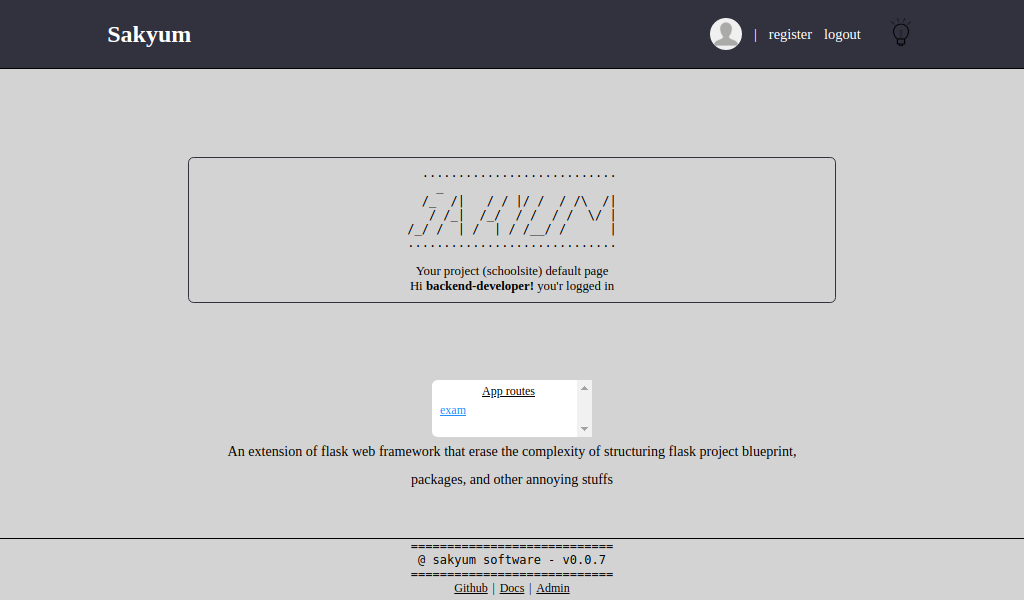
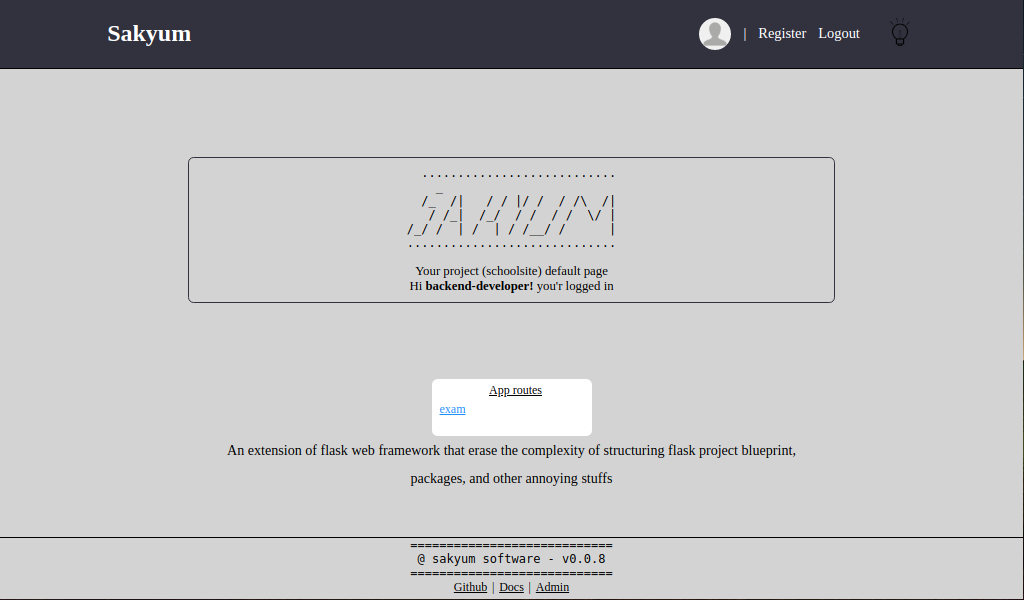
now! it`s compatibility with windows OS and possibly other OS as well

diff --git a/sakyum/templates/default_page/default.html b/sakyum/templates/default_page/default.html
@@ -43,11 +43,11 @@
           {% endif %}
           <a class="link_1">|</a>
           {% if current_user.is_authenticated %}
-            <a href="{{ url_for('auth.adminRegister') }}" class="link_2">register</a>
-            <a href="{{ url_for('auth.adminLogout') }}" class="link_3">logout</a>
+            <a href="{{ url_for('auth.adminRegister') }}" class="link_2">Register</a>
+            <a href="{{ url_for('auth.adminLogout') }}" class="link_3">Logout</a>
           {% else %}
             <a href="https://sakyum.readthedocs.io" class="link_2" target="_blank">Docs</a>
-            <a href="{{ url_for('auth.adminLogin') }}" class="link_3">login</a>
+            <a href="{{ url_for('auth.adminLogin') }}" class="link_3">Login</a>
           {% endif %}
           <a onclick="test()" class="alert">
             <img src="{{ url_for('default.static', filename='media/alert.png') }}" alt="">
@@ -96,10 +96,10 @@
       <!-- the below span tag will be visible only if the page is view with small size screen -->
       <span class="auth_route_sm">
         {% if current_user.is_authenticated %}
-          <a href="{{ url_for('auth.adminRegister') }}">register</a>
-          <a href="{{ url_for('auth.adminLogout') }}">logout</a>
+          <a href="{{ url_for('auth.adminRegister') }}">Register</a>
+          <a href="{{ url_for('auth.adminLogout') }}">Logout</a>
         {% else %}
-          <a href="{{ url_for('auth.adminLogin') }}">login</a>
+          <a href="{{ url_for('auth.adminLogin') }}">Login</a>
         {% endif %}
       </span>
       <p><pre>{{context.footer_style[1]}}

diff --git a/sakyum/base.py b/sakyum/base.py
@@ -5,6 +5,7 @@ import sys
 import shlex
 import logging
 import argparse
+import platform
 import subprocess as sp
 
 from pathlib import Path
@@ -38,11 +39,12 @@ from . import __version__
 
 formatter = "[+] [%(asctime)s] [%(levelname)s] %(message)s"
 logging.basicConfig(format = formatter)
-logger = logging.getLogger(__name__)
-logger.setLevel(logging.DEBUG)
+LOGGER = logging.getLogger(__name__)
+LOGGER.setLevel(logging.DEBUG)
 
 # used for relative path to default image to copy for a project (only)
 ORIGIN = Path(__file__).resolve().parent
+OS_SEP = os.path.sep # platform-specific path separator (for linux `/`, for windows `\\`)
 
 
 class BaseStructure:
@@ -94,16 +96,40 @@ class BaseStructure:
 
   def instanciate_default_img(self):
     """instanciate user default image"""
-    with open(str(ORIGIN) + "/static/default_style/media/default_img.png", mode="rb") as img_read:
+    file_path = os.path.join(ORIGIN, "static", "default_style", "media", "default_img.png")
+    with open(file_path, mode="rb") as img_read:
       img_read_data = img_read.read()
     with open("default_img.png", mode="wb") as img_write:
       img_write.write(img_read_data)
       
 
   def file_opt(self, _dir, tree=True, _here=False, _where=False):
-    """make dir tree if `tree=True` and get into it, if `_here` or `_where` is equal to True"""
+    """
+    make dir tree if `tree=True` and get into it, if `_here` or `_where` is equal to True
+    """
+
+    # we can use any of the below three variables to make our code compatible with many OS
+    os_name = os.name # nt or posix
+    platform_name_1 = sys.platform # win32 or linux or darwin or android
+    platform_name_2 = platform.system() # Windows, Darwin, Linux, etc.
+
     if tree:
-      sp.run(["mkdir", "-p", _dir])
+      if os_name == "nt":
+      # if platform_name_1 == "win32":
+      # if platform_name_2 == "Windows":
+        os.makedirs(_dir, exist_ok=True)
+        # The exist_ok=True argument ensures that the function
+        # does not raise an exception if the directory already exists.
+      elif os_name == "posix":
+      # elif platform_name_1 == "linux" or platform_name_1 == "darwin" or platform_name_1 == "android":
+      # elif platform_name_2 == "Linux" or platform_name_2 == "Darwin":
+        sp.run(["mkdir", "-p", _dir])
+      else:
+        err_compt = f'{__title__.capitalize()} v{__version__} is not compatible with your OS'
+        print()
+        LOGGER.error(err_compt)
+        print()
+        exit()
     if _here:
       os.chdir(os.path.join(_here, _dir))
     if _where:
@@ -121,7 +147,7 @@ class BaseStructure:
       if i in name:
         name_err = f"[{un_accept_char}] are characters that are not allowed to be in your {proj_or_app} name, we found `{i}` in the name ({name})\n"
         print()
-        logger.error(name_err)
+        LOGGER.error(name_err)
         exit()
       
 
@@ -133,7 +159,7 @@ class BaseStructure:
     
     if is_app:
       for _fls in fls:
-        app_name = os.getcwd().split("/")[-1]
+        app_name = os.getcwd().split(OS_SEP)[-1]
         sp.run(shlex.split(f"{fls_cmd} {_fls}"))
         if is_static_file:
           # building app default files (html, css, js)
@@ -162,7 +188,7 @@ class BaseStructure:
   def dir_tree(self, proj_name=None):
     """create a directory tree where file will reserved as well as modules too"""
     self.validateProjectOrAppName(proj_name, type_of=True)
-    dirs = [proj_name, f"{proj_name}/{proj_name}", "media", "templates", "static"]
+    dirs = [proj_name, f"{proj_name}{OS_SEP}{proj_name}", "media", "templates", "static"]
     
     # default files of project sub folder, except `thunder` which is for project base dir
     fls_name = ["__init__", "config", "routes", "secret", "thunder"]
@@ -172,12 +198,12 @@ class BaseStructure:
     # check if the project already exist
     if os.path.exists(os.path.join(_here, proj_name)):
       print(f"\nProject ({proj_name}) already exist in this directory\n\t" + os.path.realpath(proj_name))
-      logger.info(_here)
+      LOGGER.info(_here)
       print()
     else:
       # making directories trees and their default files in the loop
       for _dir in dirs:
-        if _dir == dirs[0] + "/" + dirs[0]:
+        if _dir == dirs[0] + OS_SEP + dirs[0]:
           self.file_opt(_dir, _here=_here)
           # create default modules inside project sub dir
           for _fls in fls:
@@ -220,7 +246,7 @@ class BaseStructure:
               static_base_dir = os.getcwd() # base dir path of static folder
               
               # make project static dir and cd into, NB: `os.getcwd()` is base dir of static dir
-              self.file_opt(proj_name, _where=os.getcwd()+"/"+proj_name)
+              self.file_opt(proj_name, _where=os.getcwd()+OS_SEP+proj_name)
               # storing the project static dir path before creating any thing and cd into media
               s_p_dir = os.getcwd()
               self.file_opt("media", _where="media") # make media dir for project
@@ -240,7 +266,7 @@ class BaseStructure:
           os.chdir(_here)
 
       print()
-      logger.info(f"Project ({proj_name}) created successfully!")
+      LOGGER.info(f"Project ({proj_name}) created successfully!")
       print()
       
 
@@ -281,12 +307,12 @@ class AppStructure(BaseStructure):
     _here_app = os.getcwd()  # initial `inside project folder` (parent) directory
     
     # check if the app already exist
-    app_proj_name = _here_app.split("/")[-1]
+    app_proj_name = _here_app.split(OS_SEP)[-1]
     self.proj_store_name = app_proj_name
 
     if os.path.exists(os.path.join(_here_app, proj_app_name)):
       print(f"\nApp ({proj_app_name}) already exist in this project ({app_proj_name})\n\t" + os.path.realpath(proj_app_name))
-      logger.info(_here_app)
+      LOGGER.info(_here_app)
       print()
     else:
       # making directories trees and their default files
@@ -307,7 +333,7 @@ class AppStructure(BaseStructure):
       self.file_opt("media") # an app media folder
       self.file_opt("do_nothing", tree=False, _where=_here_app) # back to project dir
       print()
-      logger.info(f"App ({proj_app_name}) created successfully! in {app_proj_name}")
+      LOGGER.info(f"App ({proj_app_name}) created successfully! in {app_proj_name}")
       print()
       
 
@@ -373,7 +399,7 @@ class Boot:
       --debug , -d   Do you want debug?"""
     if len(sys.argv) == 1:
       print()
-      logger.error(f"please run the module with positional argument and flag if needed\n{error_ref_1}")
+      LOGGER.error(f"please run the module with positional argument and flag if needed\n{error_ref_1}")
       exit()
 
     if sys.argv[1] == "create_app":
@@ -383,15 +409,15 @@ class Boot:
       parser.add_argument("--app", "-a", required=True, type=str, metavar="", help="What is the app name")
       parser.add_argument(dest="create_app", default="create_app", type=str, metavar="", help="Put positional argument of `create_app` to create app, app are create inside your project")
       args = parser.parse_args()
-      the_proj = os.getcwd().split("/")[-1]
+      the_proj = os.getcwd().split(OS_SEP)[-1]
       
       if args.app.lower() == __title__:
         print()
-        logger.error(f"Not allowed to use ({__title__}) package name as an app name\n")
+        LOGGER.error(f"Not allowed to use ({__title__}) package name as an app name\n")
         exit()
       elif args.app == the_proj:
         print()
-        logger.error(f"Not allowed to use your ({the_proj}) project name as an app name\n")
+        LOGGER.error(f"Not allowed to use your ({the_proj}) project name as an app name\n")
         exit()
       app_init(args.app)
 
@@ -406,11 +432,11 @@ class Boot:
       self.h = args.host
       if os.environ.get("FLASK_DEBUG") and os.environ.get("FLASK_DEBUG") == "1":
         self.d = True
-        logger.info(" * You have set an environment variable of `FLASK_DEBUG` to '1'")
+        LOGGER.info(" * You have set an environment variable of `FLASK_DEBUG` to '1'")
       else:
         self.d = args.debug
       
-      # logger.info(f"@{__title__} v{__version__} | visit: http://localhost:{args.port} (for development)")
+      # LOGGER.info(f"@{__title__} v{__version__} | visit: http://localhost:{args.port} (for development)")
       
     elif sys.argv[1] == "create_user":
       parser = argparse.ArgumentParser(prog="create user", description="This create user")
@@ -451,9 +477,9 @@ class Boot:
       self.db.session.add(user)
       self.db.session.commit()
       print()
-      logger.info(f"One user record added ({username})\n")
+      LOGGER.info(f"One user record added ({username})\n")
       exit()
     else:
       print()
-      logger.error(f"use a valid positional argument and flag if needed\n{error_ref_2}")
+      LOGGER.error(f"use a valid positional argument and flag if needed\n{error_ref_2}")
       exit()

diff --git a/sakyum/utils.py b/sakyum/utils.py
@@ -14,7 +14,8 @@ from sakyum import __version__
 
 
 # relative path to the package folder (sakyum)
-rel_path = Path(__file__).resolve().parent
+REL_PATH = Path(__file__).resolve().parent
+OS_SEP = os.path.sep # platform-specific path separator (for linux `/`, for windows `\\`)
 
 
 def static_dir(app, static_from_pkg=False, os_name: "nt or posix"=os.name):
@@ -22,14 +23,10 @@ def static_dir(app, static_from_pkg=False, os_name: "nt or posix"=os.name):
     relative path to static files
     if `static_from_pkg` is not false, it will use the directory name that is in the library package which is `static`, else it will use for project `static` directory
   """
-  if os_name == "nt":
-    if static_from_pkg:
-      return str(rel_path) + "\static\\" + app
-    return os.getcwd() + "\static\\" + app
-  else:
-    if static_from_pkg:
-      return str(rel_path) + "/static/" + app
-    return os.getcwd() + "/static/" + app
+
+  if static_from_pkg:
+      return str(REL_PATH) + OS_SEP + "static" + OS_SEP + app
+  return os.getcwd() + OS_SEP + "static" + OS_SEP + app
   
 
 def template_dir(temp_from_pkg=False, os_name=os.name):
@@ -37,14 +34,10 @@ def template_dir(temp_from_pkg=False, os_name=os.name):
     relative path to html page
     if `temp_from_pkg` is not false, it will use the directory name that is in the library package which is `templates`, else it will use for project `templates` directory
   """
-  if os_name == "nt":
-    if temp_from_pkg:
-      return str(rel_path) + "\\templates\\" + temp_from_pkg
-    return os.getcwd() + "\\templates"
-  else:
-    if temp_from_pkg:
-      return str(rel_path) + "/templates/" + temp_from_pkg
-    return os.getcwd() + "/templates"
+
+  if temp_from_pkg:
+    return str(REL_PATH) + OS_SEP + "templates" + OS_SEP + temp_from_pkg
+  return os.getcwd() + OS_SEP + "templates"
   
 
 def stylePage(name, version=False):

diff --git a/setup.py b/setup.py
@@ -6,25 +6,24 @@ from setuptools import find_packages
 
 setup(
   name = "sakyum", # name of the main package (base folder i.e sakyum)
-  version = "0.0.7",
+  version = "0.0.8",
   description = "An extension of flask web framework that erase the complexity of structuring flask project blueprint, packages, and other annoying stuffs",
   long_description = open("README.md").read() + "\n\n" + open("CHANGELOG").read(),
   long_description_content_type="text/markdown",
   python_requires = ">=3.6",
-  # platforms="any",
+  platforms="any",
   
   url = "https://sakyum.readthedocs.io",
-  repo = "https://github.com/usmanmusa1920/sakyum",
   author = "Usman Musa",
   author_email = "usmanmusa1920@gmail.com",
-  License = "MIT",
+  license = "MIT",
   classifiers = [
     "Development Status :: 5 - Production/Stable",
     "Environment :: Web Environment",
     "Intended Audience :: Developers",
     "Natural Language :: English",
-    "Operating System :: POSIX :: Linux",
-    # "Operating System :: OS Independent",
+    # "Operating System :: POSIX :: Linux",
+    "Operating System :: OS Independent",
     "License :: OSI Approved :: MIT License",
     "Topic :: Software Development :: Libraries :: Python Modules",
     "Programming Language :: Python",

diff --git a/sakyum/auth/routes.py b/sakyum/auth/routes.py
@@ -11,6 +11,7 @@ from .models import User
 from .forms import LoginForm, ChangePasswordForm, RegisterForm
 
 
+OS_SEP = os.path.sep # platform-specific path separator (for linux `/`, for windows `\\`)
 upload_folder = os.environ.get("FLASK_UPLOAD_FOLDER")
 origin_path = os.environ.get("FLASK_ORIGIN_PATH")
 allowed_extensions = os.environ.get("FLASK_ALLOWED_EXTENSIONS")
@@ -113,7 +114,7 @@ def profile_image(filename):
   this function help to show current user profile image, it won't download it
   like the `download_file` function below does
   """
-  return send_file(upload_folder + "/" + filename)
+  return send_file(upload_folder + OS_SEP + filename)
   
 
 @auth.route("/media/<path:filename>")
@@ -155,7 +156,7 @@ def changeProfileImage():
       user = User.query.filter_by(username=current_user.username).first()
       if user:
         if user.user_img != "default_img.png":
-          r = str(origin_path) + "/media/" + user.user_img
+          r = str(origin_path) + OS_SEP + "media" + OS_SEP + user.user_img
           if os.path.exists(r):
             os.remove(r)
         user.user_img = file_name

diff --git a/sakyum/__init__.py b/sakyum/__init__.py
@@ -14,7 +14,7 @@
 
 
 __title__ = "sakyum"
-__version__ = "0.0.7"
+__version__ = "0.0.8"
 __author__ = "Usman Musa"
 __author_email__ = "usmanmusa1920@gmail.com"
 __author_website__ = "https://usmanmusa1920.github.io"

diff --git a/docs/quick_start.rst b/docs/quick_start.rst
@@ -5,7 +5,7 @@ Quick start
 
 First we recomend you to create a virtual environment to avoid conflict (upgrade/downgrade of some of your system libraries) when installing sakyum, this is just a recomendation, it still work even if you install it without using virtual environment
 
-Install and update the latest release from `pypi <https://pypi.org/project/sakyum>`_. Basically the library was uploaded using **sdist** (Source Distribution) and this software (library) it might not be compatible with **windows operating system** but it works on other **OS** such as **linux** and **macOS**, but very soon the version that will be compatible with **windows operating system** will be release, stay tuned.
+Install and update the latest release from `pypi <https://pypi.org/project/sakyum>`_. Basically the library was uploaded using **sdist** (Source Distribution) and this software (library) as from **v0.0.8** it is now compatible with **windows OS** and others as well, such as **linux**, **macOS** and possibly some others too!.
 
 You will notice we use **--upgrade** in the installation command, this will make sure it install the latest release from pypi (in case you have a version which is not the latest), you can still ommit the `--upgrade` and use the version you want then wait for the installation to finish.::
 

diff --git a/README.md b/README.md
@@ -5,7 +5,7 @@ An extension of flask web framework that erase the complexity of structuring fla
 
 ## Installation
 
-Install and update the latest release from <a href="https://pypi.org/project/sakyum">pypi</a>. Basically the library was uploaded using `sdist` (Source Distribution) and this software (library) it might not be compatible with `windows operating system` but it works on other `OS` such as `linux` and `macOS`, but very soon the version that will be compatible with **windows operating system** will be release, stay tuned.
+Install and update the latest release from <a href="https://pypi.org/project/sakyum">pypi</a>. Basically the library was uploaded using `sdist` (Source Distribution) and this software (library) as from `v0.0.8` it is now compatible with `windows OS` and others as well, such as `linux`, `macOS` and possibly some others too!.
 
 ```
 pip install --upgrade sakyum
